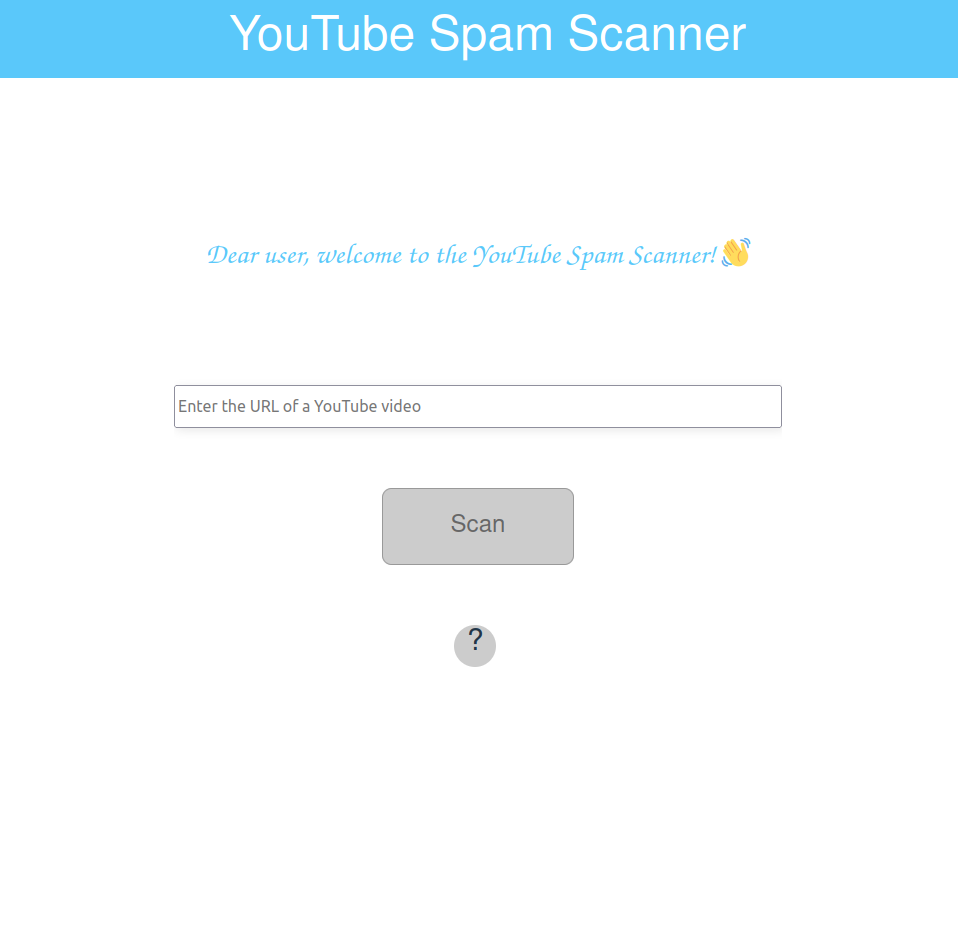
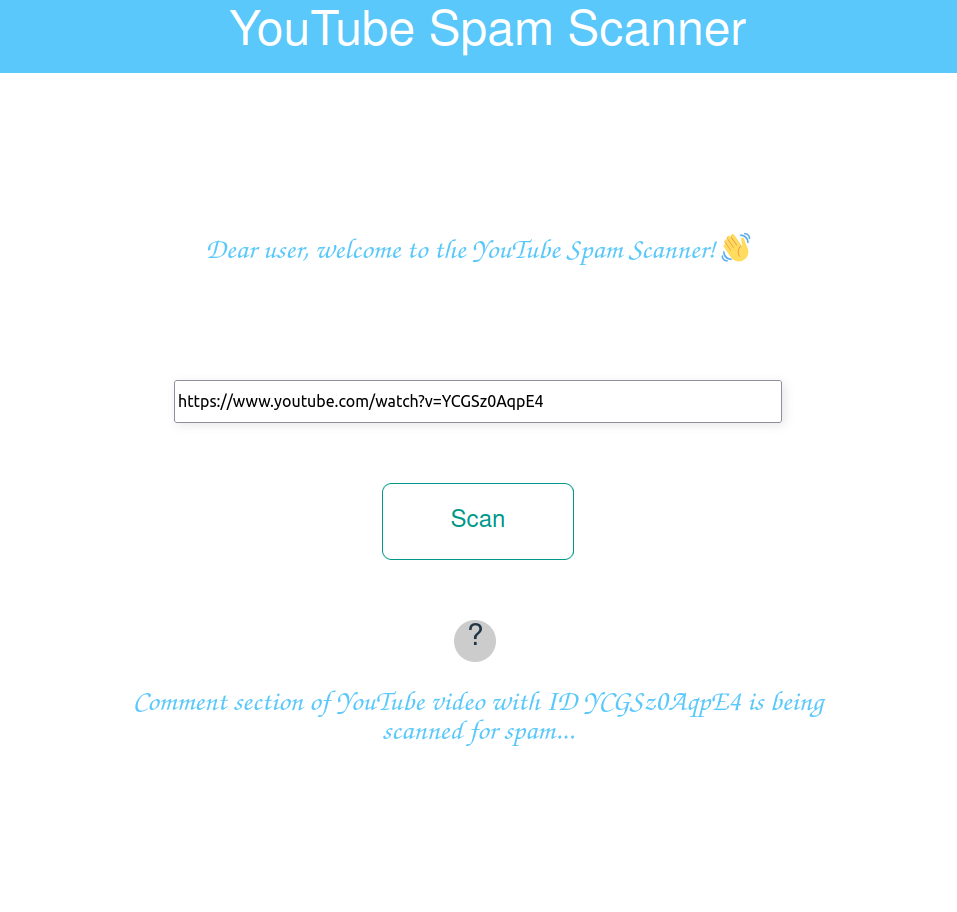
continue readme.md

diff --git a/README.md b/README.md
@@ -6,9 +6,9 @@ Task: Text Analytics project
 
 Team Members: Angelina Basova, Abdulghani Almasri, Paul Dietze, Vivian Kazakova
 
-Mail Addresses: angelina.basova@stud.uni-heidelberg.de,  abdulghani.almasri@stud.uni-heidelberg.de, cl250@uni-heidelberg.de, vivian.kazakova@stud.uni-heidelberg.de
+Mail Addresses: angelina.basova@stud.uni-heidelberg.de, abdulghani.almasri@stud.uni-heidelberg.de, cl250@uni-heidelberg.de, vivian.kazakova@stud.uni-heidelberg.de
 
-Existing Code Fragments: sklearn models ([SVM](https://scikit-learn.org/stable/modules/generated/sklearn.svm.SVC.html), [Logistic Regression](https://scikit-learn.org/stable/modules/generated/sklearn.linear_model.LogisticRegression.html), [Naive Bayes](https://scikit-learn.org/stable/modules/generated/sklearn.naive_bayes.MultinomialNB.html)), [spaCy](https://spacy.io/)
+Existing Code Fragments: sklearn models ([SVM](https://scikit-learn.org/stable/modules/generated/sklearn.svm.SVC.html), [Logistic Regression](https://scikit-learn.org/stable/modules/generated/sklearn.linear_model.LogisticRegression.html), [Naive Bayes](https://scikit-learn.org/stable/modules/generated/sklearn.naive_bayes.MultinomialNB.html)), [spaCy](https://spacy.io/), [nltk](https://www.nltk.org/)
 
 Utilized libraries: [models-requirements](./models/requirements.txt), [middleware-requirements](./middleware/requirements.txt)
 
@@ -16,29 +16,30 @@ Contributions: see table below
 
 ## Project State
 Planning State:
- - finished tasks: obtain datasets, setup ES and Kibana, setup containers and debug configurations, implement and store models (SVM, LG, NB), develop prototyp of the interface, add FastAPI functions, pipeline for loading and storing data in ES, create first dashboards
- - still in process: implement and store Ensemble model, select/choose the optimal spam classifier (evaluation of the four classifiers), further development (preprocess pipeline, improvements on frontend, additional features, more visualizations and analysis)
+ - finished tasks: setup ES and Kibana, setup containers and debug configurations, obtain existing spam collection dataset, implement pipeline fro extracting video comments using YouTube Data API, implement and store models (SVM, LG, NB), develop first prototyp of the interface, implement pipeline for loading and storing data in ES, create FastAPI functions, create example dashboards
+ - still in process: implement and store Ensemble model, choose the optimal spam classifier (i.e. evaluation of the four classifiers), further development (improve preprocess pipeline, frontend; add more features, visualizations and analysis)
 
 Future Planning:
 <!--timeline for second part of project, future time schedules-->
- - in mid/end-January: decide on spam classifier, improve preprocessing pipeline and frontend
- - in mid-February: last updates and fixes - finish further development
+ - in mid/end-January: decide on spam classifier, improve preprocessing pipeline and frontend (include results of scanning)
+ - in mid-February: last updates and fixes and finish further development
  - end of February: create video presentation and merge final code
 
 High-level Architecture Description:
  - module structure: ES - FastAPI - Svelte; dataset, middleware, models, frontend
- - preprocess pipeline: drop irrelevant features, remove empty entries, lowercase, tokenization, lemmatization, [-remove stop words?-]
+ - preprocess pipeline: removal of irrelevant features and empty entries, lowercase, tokenization, lemmatization, removal of stop words
 
 Data Analysis: see next section
 
 Experiments:
  - results:
- - baselines?
+ - baselines:
 
 ## Data Analysis
 Data Sources: 
  - [YouTube Spam Collection Data Set](https://archive.ics.uci.edu/ml/datasets/YouTube+Spam+Collection#)
- - Extracted comments using YouTube Data API
+ - Comments extracted using YouTube Data API (stored beforehead)
+ - Comments extracted using YouTube Data API (live, from the input video)
 
 Preprocessing:
 <!--preprocessing steps - unicode normalization, length normalization, text sanitizing, etc-->
@@ -46,33 +47,31 @@ Preprocessing:
 Basic Statistics: 
 <!--number of samples, mean, median & standard deviation, etc.; class distribution, plots-->
 - The [YouTube Spam Collection Data Set](https://archive.ics.uci.edu/ml/datasets/YouTube+Spam+Collection#) contains of 1956 comments from 5 different YouTube videos. There are 1005 spam and 951 legitimate comments. 
-<p align="center">
-<img src="/images/spam-collection_distribution.png" />
+<p align="left">
+<img src="./images/spam-collection.png" alt="spam-collection" width="500" />
 </p>
 
 Examples: <!--example of data sample from our collection, eventually edge cases-->
-<p align="center">
-<img src="/images/example_data-sample.png" />
+<p align="left">
+<img src="./images/example-data.png" />
 </p>
 
 ## Current Code State
-Important: Self-explanatory Variables, Comments, Docstrings, Module Structure, Code Consistency, [PEP-8](https://www.python.org/dev/peps/pep-0008/), "Hacks"
+- Important: Self-explanatory Variables, Comments, Docstrings, Module Structure, Code Consistency, [PEP-8](https://www.python.org/dev/peps/pep-0008/), "Hacks"
 
-## Web App Frontend:
+- Web App Frontend:
 
-Default Page             |  Link entered
-:-------------------------:|:-------------------------:
-![](/images/frontend2.png)  |  ![](/images/frontend.png)
+<img class="image-align-left" src="./images/frontend1.png" alt="Default Page" width="700" />  <img class="image-align-left" src="./images/frontend2.png" alt="Link entered for scan" width="710"/>
 
 
-## Kibana Dashboard
+- Kibana Dashboards
 
-<p align="center">
-<img src="./images/dashboard1.png" />
+<p align="left">
+<img src="./images/dashboard1.png"  alt="dashboard" width="1500" />
 </p>
 
-<p align="center">
-<img src="./images/dashboard1_2.png" />
+<p align="left">
+<img src="./images/dashboard2.png"  alt="dashboard" width="1500"/>
 </p>
 
 
@@ -85,25 +84,27 @@ Timeframe  | Angelina   | Vivian     | Abdulghani | Paul
 03.12 - 11.12   |  | working on middleware and frontend |  |  working on middleware and frontend
 
 
-
 ## How to run and debug?
+<details>
+  <summary></summary>
+  
+  #### Frontend
+  1. If container not already running:
+  - run `docker compose up` in terminal (requires docker-compose.yml) or 
+  - right-click on [docker-compose.debug.yml](docker-compose.debug.yml) in VS-Code and choose "Compose Up"
 
-#### Frontend
- 1. If container not already running:
- - run `docker compose up` in terminal (requires docker-compose.yml) or 
- - right-click on [docker-compose.debug.yml](docker-compose.debug.yml) in VS-Code and choose "Compose Up"
+  2.  Execute launch configuration "Launch Chrome against localhost". Set breakpoints inside "frontend/src" if necessary.
 
-2.  Execute launch configuration "Launch Chrome against localhost". Set breakpoints inside "frontend/src" if necessary.
+  #### Middleware
+  1.  If container not already running:
+  - run `docker compose up` in terminal (requires docker-compose.yml) or
+  - right-click on  [docker-compose.debug.yml](docker-compose.debug.yml) in VS-Code and choose "Compose Up"
+  2.  Open `localhost:8000/docs` to access API. 
+  3. To debug, execute launch configuration "Python: Middleware Remote Attach". Set breakpoints inside "middleware/app" if necessary.
 
-#### Middleware
-1.  If container not already running:
-- run `docker compose up` in terminal (requires docker-compose.yml) or
-- right-click on  [docker-compose.debug.yml](docker-compose.debug.yml) in VS-Code and choose "Compose Up"
-2.  Open `localhost:8000/docs` to access API. 
-3. To debug, execute launch configuration "Python: Middleware Remote Attach". Set breakpoints inside "middleware/app" if necessary.
+  > **_NOTE:_** Before running `docker compose up` on Windows computer, please make sure the line ending is `LF` instead of `CRLF` in VS-Code for the file `middleware/start.sh`
+  > <p align="center">
+  > <img src="./images/LF_settings.jpg" />
+  > </p>
 
-> **_NOTE:_** Before running `docker compose up` on Windows computer, please make sure the line ending is `LF` instead of `CRLF` in VS-Code for the file `middleware/start.sh`
-> <p align="center">
-> <img src="./images/LF_settings.jpg" />
-> </p>
-> <!-- ![alt text](./images/LF_settings.jpg) -->
+</details>
